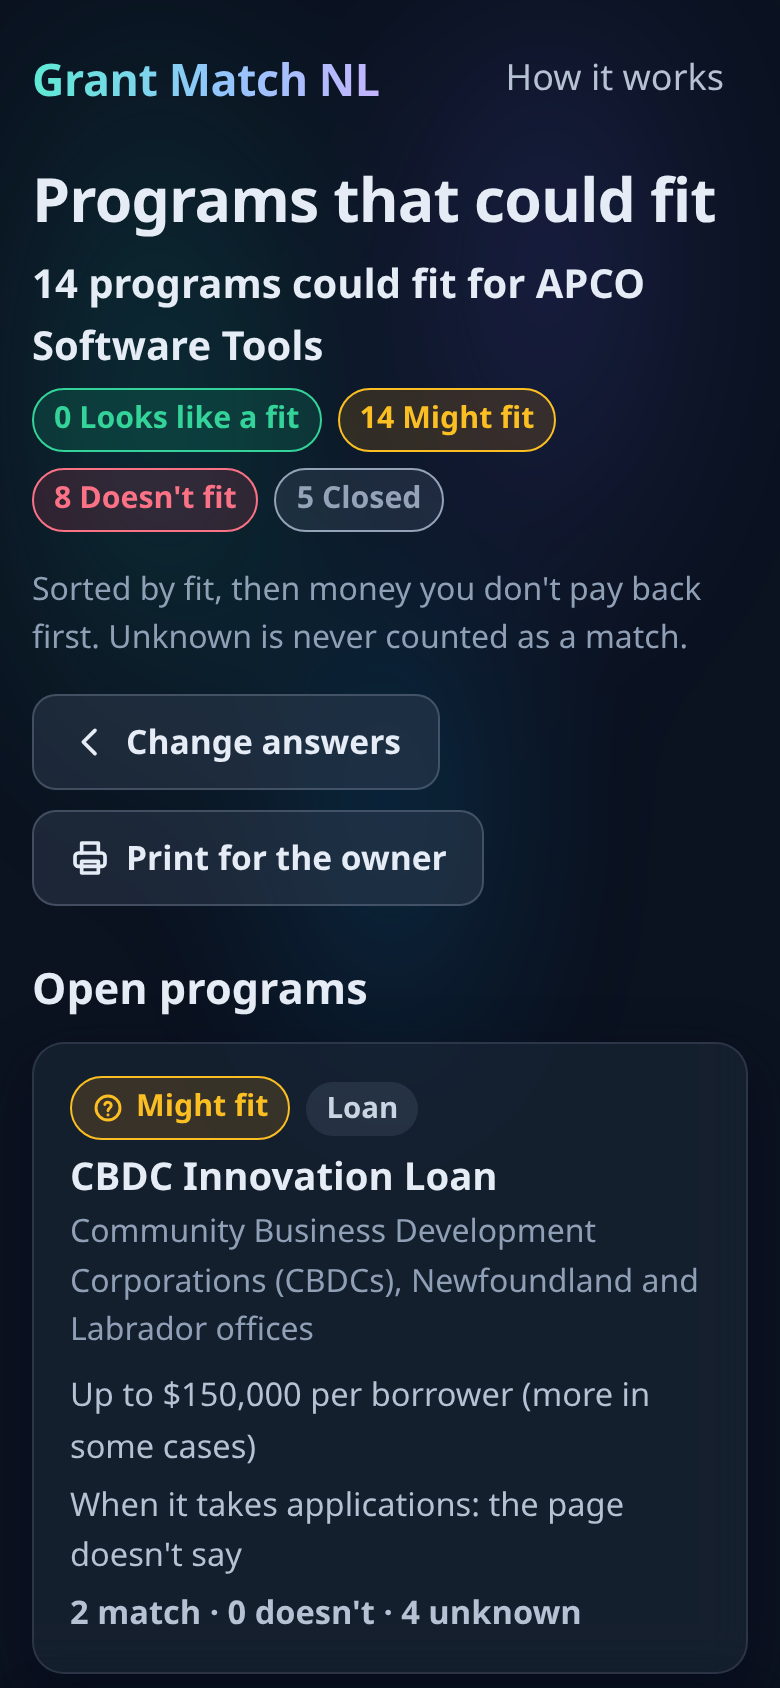
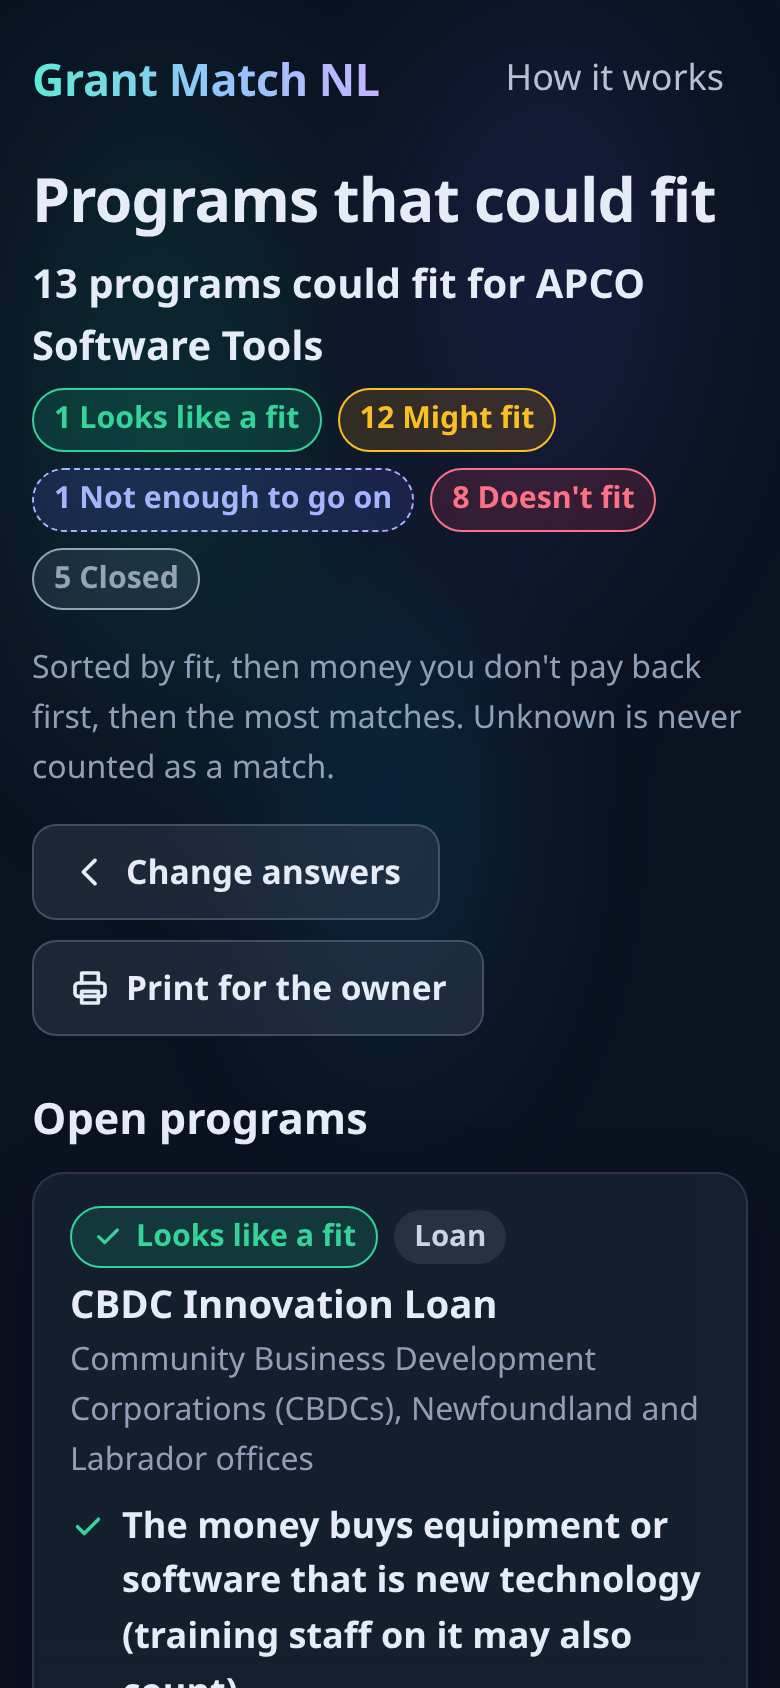
Round 2: real APCO screenshots retaken (new tier, true sort, top match, intake line, split Unknown); README matching section; build report round 2 section with controls N1-N8
Claude-Session: https://claude.ai/code/session_01MGoNyrbJND6di9uQN9XQ3E

Changed region(s): [[0.0308, 0.2464, 0.9538, 1.0], [0.0615, 0.154, 0.0923, 0.1848]]

diff --git a/docs/build-report.md b/docs/build-report.md
@@ -4,6 +4,35 @@ Lead: Onyx (Opus 5, xhigh). Slices: gm1 engine + NL programs, gm2 Worker + app +
 programs (Opus 5, medium), each in its own worktree on its own ports. Every number here comes from a QA worktree
 pinned to a sha (`rig qa`), never from a shared tree. Per-slice detail: `docs/build-report-gm1.md`, `-gm2.md`.
 
+## Round 2 — Onyx's review (lead only, no slices)
+
+Onyx reviewed the real APCO Software Tools results and asked for five changes (DECISIONS #29): sort as stated (fit, then
+funding type, then matches), intake timing out of the fit label and onto its own line, Unknown split into "the page
+doesn't say" and "we didn't ask you", a "Not enough to go on" tier for 0 matches, and each card's strongest quoted match.
+
+**Real APCO Software Tools profile, same 27 programs, same live data:** before, 0 Looks like a fit, 14 Might fit, 8 Doesn't
+fit, 5 closed; after, 1 Looks like a fit (CBDC Innovation Loan), 12 Might fit, 1 Not enough to go on (Innovation and
+Business Development Fund), 8 Doesn't fit, 5 closed. The Might fit list now opens with the non-repayable programs
+(Green Transition Fund, Business Growth Program), then repayable (ACOA), then loans.
+
+**A judgement call, reversed on evidence:** the lead first put location-only programs in "Not enough to go on" too. On the
+real APCO profile that made 12 of 22 open programs "Not enough to go on", mostly because the profile left structure and
+revenue unanswered, so it went back to Onyx's rule: 0 matches.
+
+**Negative controls, round 2** (`scratchpad/r2-controls.py`: break a committed file, run the targeted test, restore byte
+for byte, confirm git-clean, re-run green; a run with no tests counts as a failure):
+
+| # | Break | Result |
+|---|---|---|
+| N1 | Sort by more matches before funding type (Onyx's control) | red: "funding type outranks matches: a loan with more matches sits below a non-repayable program" |
+| N2 | Intake timing counted in the fit label again | red: "when a program takes applications never changes its label" |
+| N3 | A program with 0 matches allowed to be Might fit | red: "Not enough to go on: 0 matches is never Might fit" |
+| N4 | Core's Unknown split with `unclear` counted as we-didn't-ask-you | red: "Unknown splits into what the page doesn't say and what we didn't ask you" |
+| N5 | `top_match` allowed to pick location | red: "top_match: the strongest short quoted match beyond location" |
+| N6 | Card quote shows the criterion text instead of the quote | red: "each card shows its strongest quoted match, exactly as core picked it" |
+| N7 | App's Unknown groups swapped | **first VOID**: the test compared counts, and the SAMPLE program has one of each kind, so a swap kept both counts at 1. Test fixed to compare criterion ids per group (0e09a1a); then red |
+| N8 | Intake line without "call the office to confirm" | red: "a card says what the page leaves unsaid" |
+
 ## Final QA
 
 Pinned QA worktree at **`952c679`** (main after the last merge), QA ports 7406–7409, run by the lead's `final-qa.sh`:

diff --git a/README.md b/README.md
@@ -87,13 +87,20 @@ program when its page changes or disappears, and anything verified more than 60 
 ## How matching works
 
 Rules only, no model. Each criterion is a structured rule plus the quote it came from, evaluated against the profile
-as met, missed or Unknown (the page's wording can't settle it, the answer's band sits on both sides of a limit, you
-didn't answer, or it's something to check yourself). **Doesn't fit** = something is missed or the program is closed.
-**Looks like a fit** = everything your answers can check matches, at least one thing beyond location, the page says
-it's taking applications, and the page is fresh and unchanged. **Might fit** = everything else. Sorted by fit, then
-programs with a real match before location-only ones, then money you don't pay back first. Most provincial pages don't
-say when applications are taken, so most real results are Might fit: that's the pages, not a bug. Worked examples:
-`docs/RULES.md`; every judgement call: `DECISIONS.md`.
+as met, missed or Unknown. Unknown is never counted as met, and it comes in two kinds: **the page doesn't say** (its
+wording can't settle your answer) and **we didn't ask you** (a check-it-yourself item, a question you skipped or weren't
+sure about, a band on both sides of a limit), so an owner can see which ones they can answer.
+
+- **Looks like a fit:** everything your answers can check matches, at least one match beyond location, and the page is
+  fresh and unchanged.
+- **Might fit:** something matched and nothing rules you out, but an Unknown remains (or only your location matched).
+- **Not enough to go on:** nothing matched at all.
+- **Doesn't fit:** something is missed, or the program is closed.
+
+When a program takes applications is not a condition: it's its own line ("When it takes applications: the page doesn't
+say — call the office to confirm") and never changes the label; only closed does. Sorted by fit, then money you don't pay
+back first (non-repayable, repayable, wage subsidy and tax credit, loan), then the most matches. Each card shows its
+strongest quoted match. Worked examples: `docs/RULES.md`; every judgement call: `DECISIONS.md` (round 2 is #29).
 
 ## Tests
 
